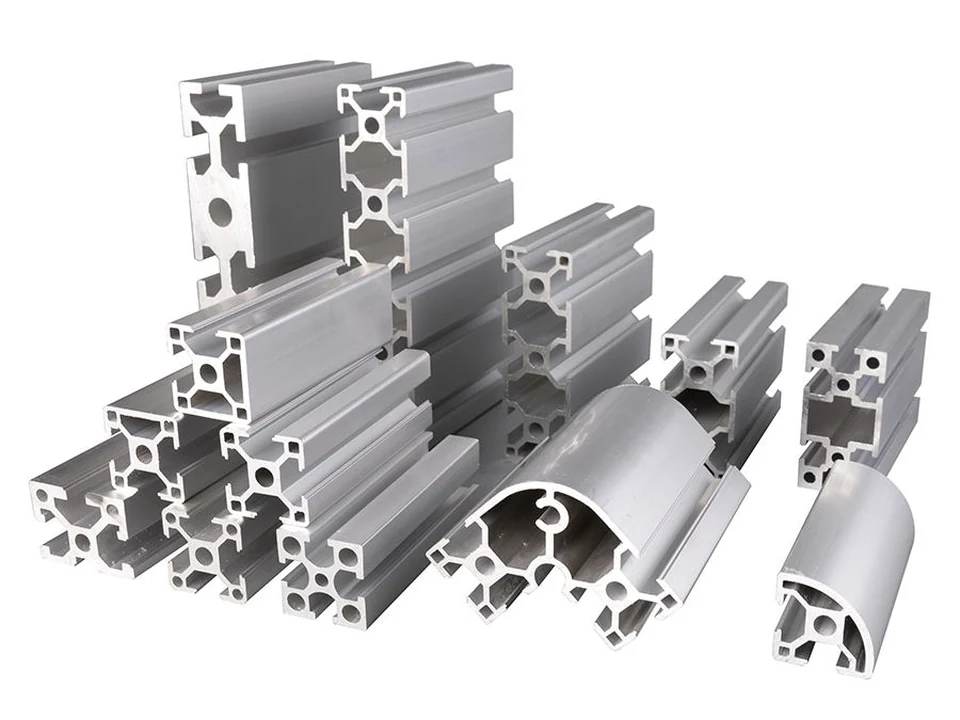
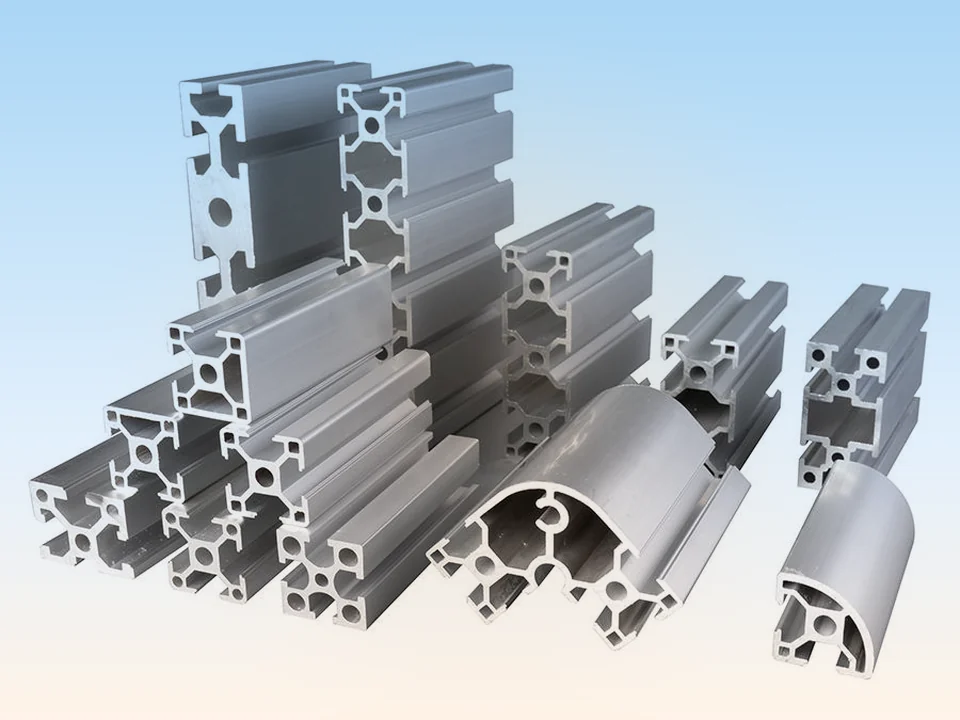
feat(web): bright backgrounds for the white-background product photos

diff --git a/apps/web/lib/residential-content.ts b/apps/web/lib/residential-content.ts
@@ -15,7 +15,7 @@ export type ResidentialItem = {
 };
 
 export const residentialProducts: ResidentialItem[] = [
-  item('ecento-70', 'ECENTO 70', 'EU-70', 'Dòng nhôm kiến trúc', 'Hệ nhôm đa khoang dành cho không gian cần nâng cao cách âm và cách nhiệt.', '/images/gallery/ecento-70-mat-cat.webp', ['Cửa đi', 'Cửa sổ', 'Vách kính'], 'product'),
+  item('ecento-70', 'ECENTO 70', 'EU-70', 'Dòng nhôm kiến trúc', 'Hệ nhôm đa khoang dành cho không gian cần nâng cao cách âm và cách nhiệt.', '/images/gallery/ecento-70-mat-cat-moi.webp', ['Cửa đi', 'Cửa sổ', 'Vách kính'], 'product'),
   item('ecento-plus', 'ECENTO PLUS', 'EU-ECPLUS', 'Dòng nhôm kiến trúc', 'Giải pháp rãnh K Châu Âu với thiết kế phẳng và cấu hình giấu vít.', '/images/gallery/ecento-plus-mat-cat-moi.webp', ['Nhà ở', 'Biệt thự', 'Công trình cao cấp'], 'product'),
   item('he-55-vat-canh', 'HỆ 55 VÁT CẠNH', 'EU-55', 'Dòng nhôm kiến trúc', 'Hệ nhôm cân bằng giữa thẩm mỹ, công năng và khả năng triển khai.', '/images/gallery/he-55-mat-cat.webp', ['Nhà phố', 'Văn phòng', 'Công trình dân dụng'], 'product'),
   item('preco', 'PRECO', 'EU-PRECO', 'Dòng nhôm kiến trúc', 'Giải pháp hệ 55 đa năng cho các cấu hình cửa phổ biến.', '/images/gallery/preco-goc-cua.webp', ['Nhà ở', 'Cải tạo', 'Công trình quy mô vừa'], 'product'),

diff --git a/apps/web/lib/homepage-systems.ts b/apps/web/lib/homepage-systems.ts
@@ -55,9 +55,9 @@ export const homeMainSystems: HomeMainSystem[] = [
     tagline: 'Đa khoang, cách âm và cách nhiệt',
     summary: 'Hệ nhôm kiến trúc cao cấp cho không gian cần độ kín khít và ổn định dài hạn.',
     description: 'ECENTO 70 là hệ nhôm đa khoang cho cửa đi, cửa sổ và vách kính ở công trình ưu tiên cảm giác kín khít, yên tĩnh và ổn định khi sử dụng lâu dài. Dải profile đồng bộ cho cửa mở quay, cửa sổ và các cấu hình kiến trúc cần cách âm, cách nhiệt tốt.',
-    image: '/images/gallery/ecento-70-mat-cat.webp',
+    image: '/images/gallery/ecento-70-mat-cat-moi.webp',
     imageAlt: 'Mặt cắt thực tế thanh ECENTO 70 phủ vân gỗ',
-    imageFit: 'contain',
+    imageFit: 'cover',
     href: '/nhom-dan-dung/dong-san-pham/ecento-70',
     warranty: '15 năm',
     colors: ['Cafe Metallic', 'Xám ngọc trai', 'Vân gỗ Cẩm Lai', 'Vân gỗ Olack'],
